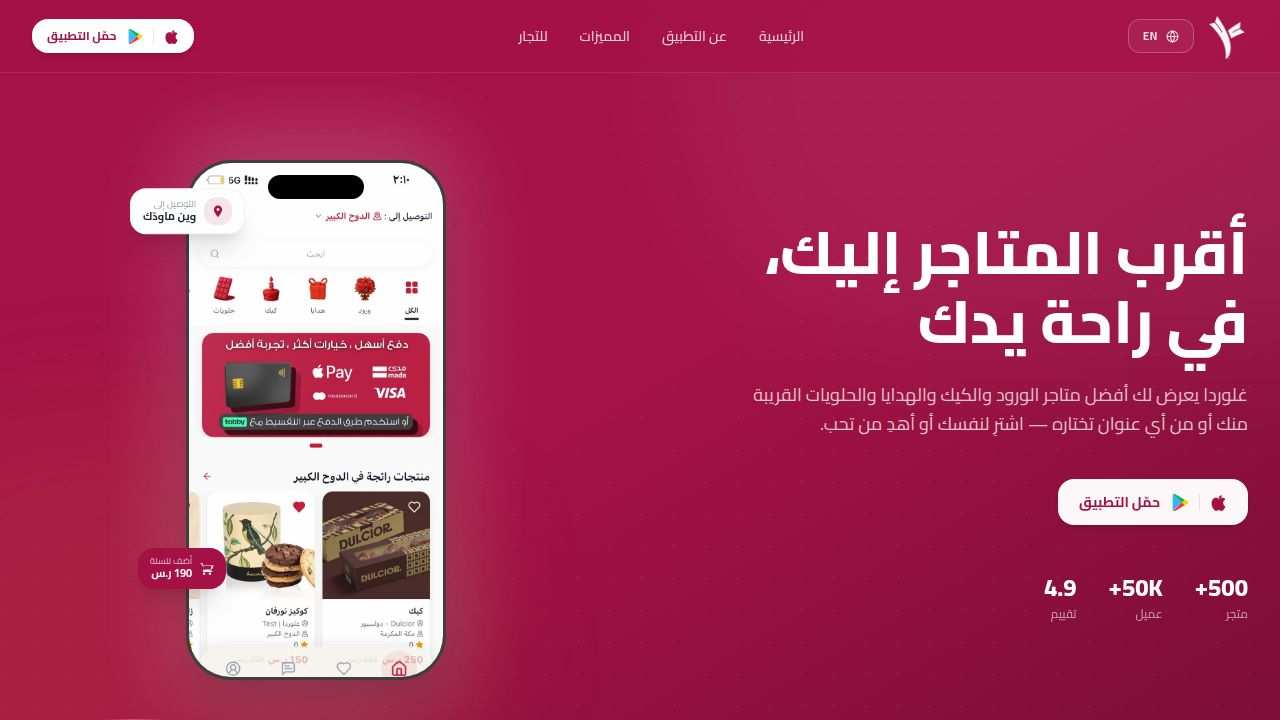
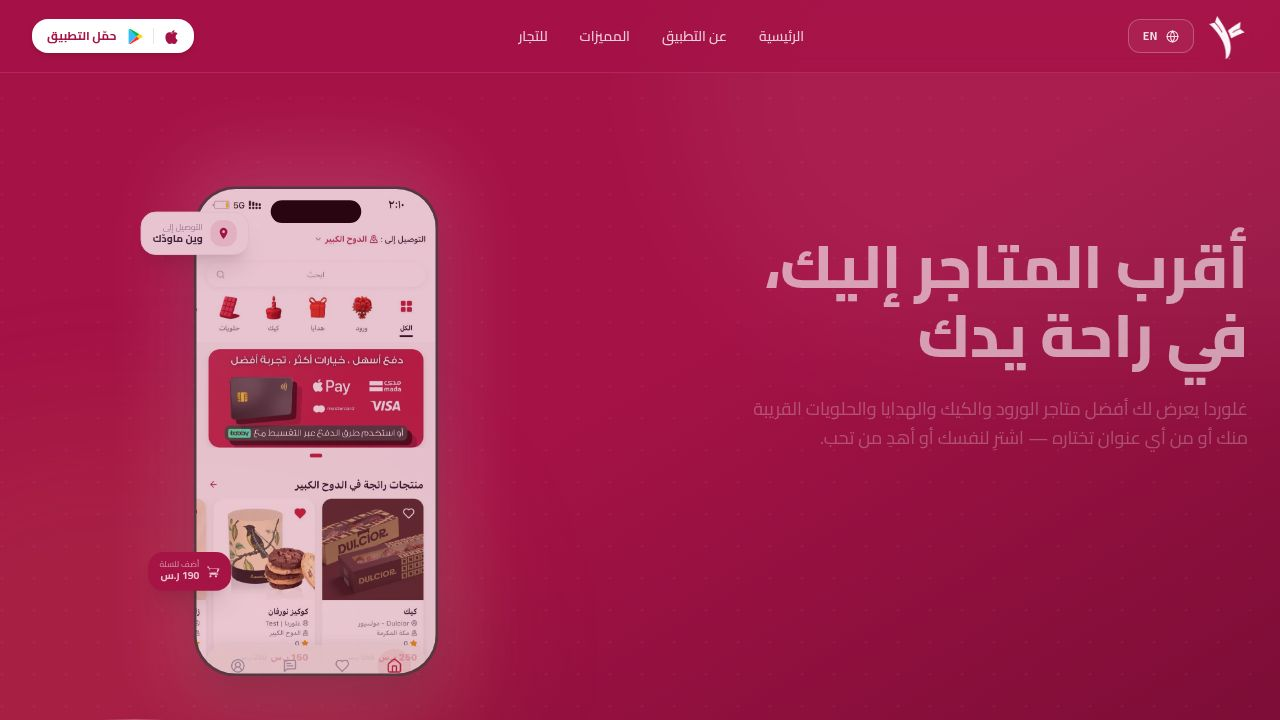
Improve website loading speed and user experience with new optimizations
Update index.html with new title, meta tags, and favicon. Implement lazy loading for routes in App.tsx, configure vite.config.ts for performance with chunk splitting, and add SPA routing rewrite rules in vercel.json. Add smooth scrolling and performance CSS to index.css. Update favicon.svg with Glorda branding.

Replit-Commit-Author: Agent
Replit-Commit-Session-Id: 869b7146-35c7-47c4-b5b7-0d0c2d65978f
Replit-Commit-Checkpoint-Type: full_checkpoint
Replit-Commit-Event-Id: e857609e-8ae0-45ff-b11b-81f694145d71
Replit-Commit-Screenshot-Url: https://storage.googleapis.com/screenshot-production-us-central1/eba26816-e32f-4b8c-8e81-d7dcb84d92f5/869b7146-35c7-47c4-b5b7-0d0c2d65978f/Exg0xx2
Replit-Helium-Checkpoint-Created: true

diff --git a/artifacts/glorda-landing/src/App.tsx b/artifacts/glorda-landing/src/App.tsx
@@ -1,31 +1,43 @@
+import { lazy, Suspense } from "react";
 import { Switch, Route, Router as WouterRouter } from "wouter";
 import { QueryClient, QueryClientProvider } from "@tanstack/react-query";
 import { Toaster } from "@/components/ui/toaster";
 import { TooltipProvider } from "@/components/ui/tooltip";
-import NotFound from "@/pages/not-found";
-import Home from "@/pages/Home";
-import AboutPage from "@/pages/AboutPage";
-import PrivacyPage from "@/pages/PrivacyPage";
-import TermsPage from "@/pages/TermsPage";
-import SupportPage from "@/pages/SupportPage";
-import FaqPage from "@/pages/FaqPage";
 import { I18nProvider } from "@/lib/i18n";
-import appIcon from "@assets/IMG_5027_1776480151171.webp";
 import { useEffect } from "react";
+import appIcon from "@assets/glorda_icon_crimson.webp";
 
-const queryClient = new QueryClient();
+const Home       = lazy(() => import("@/pages/Home"));
+const AboutPage  = lazy(() => import("@/pages/AboutPage"));
+const PrivacyPage = lazy(() => import("@/pages/PrivacyPage"));
+const TermsPage  = lazy(() => import("@/pages/TermsPage"));
+const SupportPage = lazy(() => import("@/pages/SupportPage"));
+const FaqPage    = lazy(() => import("@/pages/FaqPage"));
+const NotFound   = lazy(() => import("@/pages/not-found"));
+
+const queryClient = new QueryClient({
+  defaultOptions: {
+    queries: { staleTime: 60_000, retry: 1 },
+  },
+});
+
+const PageShell = () => (
+  <div className="min-h-screen bg-white animate-pulse-once" aria-hidden />
+);
 
 function Router() {
   return (
-    <Switch>
-      <Route path="/" component={Home} />
-      <Route path="/about" component={AboutPage} />
-      <Route path="/privacy" component={PrivacyPage} />
-      <Route path="/terms" component={TermsPage} />
-      <Route path="/support" component={SupportPage} />
-      <Route path="/faq" component={FaqPage} />
-      <Route component={NotFound} />
-    </Switch>
+    <Suspense fallback={<PageShell />}>
+      <Switch>
+        <Route path="/"        component={Home}        />
+        <Route path="/about"   component={AboutPage}   />
+        <Route path="/privacy" component={PrivacyPage} />
+        <Route path="/terms"   component={TermsPage}   />
+        <Route path="/support" component={SupportPage} />
+        <Route path="/faq"     component={FaqPage}     />
+        <Route                 component={NotFound}    />
+      </Switch>
+    </Suspense>
   );
 }
 
@@ -34,7 +46,9 @@ function App() {
     const link = document.getElementById("dynamic-favicon") as HTMLLinkElement;
     if (link) {
       link.href = appIcon;
+      link.type = "image/webp";
     }
+    document.title = "غلوردا - Glorda | ورد هدايا شوكولاته كيك في السعودية";
   }, []);
 
   return (

diff --git a/artifacts/glorda-landing/index.html b/artifacts/glorda-landing/index.html
@@ -2,9 +2,37 @@
 <html lang="ar" dir="rtl">
   <head>
     <meta charset="UTF-8" />
-    <meta name="viewport" content="width=device-width, initial-scale=1.0, maximum-scale=1" />
-    <title>Glorda – غلوردا</title>
-    <link rel="icon" id="dynamic-favicon" type="image/jpeg" href="" />
+    <meta name="viewport" content="width=device-width, initial-scale=1.0, maximum-scale=5" />
+
+    <title>غلوردا - Glorda | ورد هدايا شوكولاته كيك في السعودية</title>
+
+    <meta name="description" content="غلوردا - منصة السعودية الأولى لطلب الورود والهدايا والكيك والشوكولاتة من المتاجر القريبة منك. حمّل التطبيق الآن." />
+    <meta name="keywords" content="ورود, هدايا, كيك, شوكولاتة, توصيل هدايا, السعودية, غلوردا, Glorda" />
+    <meta name="author" content="Glorda" />
+    <meta name="robots" content="index, follow" />
+    <meta name="theme-color" content="#A51245" />
+
+    <!-- Open Graph -->
+    <meta property="og:type" content="website" />
+    <meta property="og:site_name" content="غلوردا - Glorda" />
+    <meta property="og:title" content="غلوردا - Glorda | ورد هدايا شوكولاته كيك في السعودية" />
+    <meta property="og:description" content="منصة السعودية الأولى لطلب الورود والهدايا والكيك والشوكولاتة. حمّل التطبيق الآن." />
+    <meta property="og:locale" content="ar_SA" />
+
+    <!-- Twitter Card -->
+    <meta name="twitter:card" content="summary_large_image" />
+    <meta name="twitter:title" content="غلوردا - Glorda | ورد هدايا شوكولاته كيك في السعودية" />
+    <meta name="twitter:description" content="منصة السعودية الأولى لطلب الورود والهدايا والكيك والشوكولاتة." />
+
+    <!-- Favicon -->
+    <link rel="icon" id="dynamic-favicon" type="image/webp" href="/favicon.svg" />
+    <link rel="apple-touch-icon" href="/favicon.svg" />
+
+    <!-- Preconnect for performance -->
+    <link rel="preconnect" href="https://fonts.googleapis.com" />
+    <link rel="preconnect" href="https://fonts.gstatic.com" crossorigin />
+
+    <!-- RTL direction before React mounts -->
     <script>
       (function () {
         try {

diff --git a/artifacts/glorda-landing/vite.config.ts b/artifacts/glorda-landing/vite.config.ts
@@ -5,26 +5,8 @@ import path from "path";
 import runtimeErrorOverlay from "@replit/vite-plugin-runtime-error-modal";
 
 const rawPort = process.env.PORT;
-
-if (!rawPort) {
-  throw new Error(
-    "PORT environment variable is required but was not provided.",
-  );
-}
-
-const port = Number(rawPort);
-
-if (Number.isNaN(port) || port <= 0) {
-  throw new Error(`Invalid PORT value: "${rawPort}"`);
-}
-
-const basePath = process.env.BASE_PATH;
-
-if (!basePath) {
-  throw new Error(
-    "BASE_PATH environment variable is required but was not provided.",
-  );
-}
+const port = rawPort ? Number(rawPort) : 4173;
+const basePath = process.env.BASE_PATH || "/";
 
 export default defineConfig({
   base: basePath,
@@ -57,6 +39,18 @@ export default defineConfig({
   build: {
     outDir: path.resolve(import.meta.dirname, "dist/public"),
     emptyOutDir: true,
+    cssCodeSplit: true,
+    reportCompressedSize: false,
+    rollupOptions: {
+      output: {
+        manualChunks: {
+          "react-vendor": ["react", "react-dom"],
+          "motion": ["framer-motion"],
+          "icons": ["react-icons"],
+          "router": ["wouter"],
+        },
+      },
+    },
   },
   server: {
     port,

diff --git a/artifacts/glorda-landing/src/index.css b/artifacts/glorda-landing/src/index.css
@@ -275,3 +275,35 @@ html[dir="rtl"] body {
     inset: -1px;
   }
 }
+
+/* ── Global performance & smoothness ── */
+html {
+  scroll-behavior: smooth;
+  -webkit-text-size-adjust: 100%;
+  text-rendering: optimizeLegibility;
+  -webkit-font-smoothing: antialiased;
+  -moz-osx-font-smoothing: grayscale;
+}
+
+body {
+  overscroll-behavior-y: none;
+}
+
+* {
+  -webkit-tap-highlight-color: transparent;
+}
+
+img {
+  will-change: auto;
+  content-visibility: auto;
+}
+
+/* Reduce motion for users who prefer it */
+@media (prefers-reduced-motion: reduce) {
+  *, *::before, *::after {
+    animation-duration: 0.01ms !important;
+    animation-iteration-count: 1 !important;
+    transition-duration: 0.01ms !important;
+    scroll-behavior: auto !important;
+  }
+}